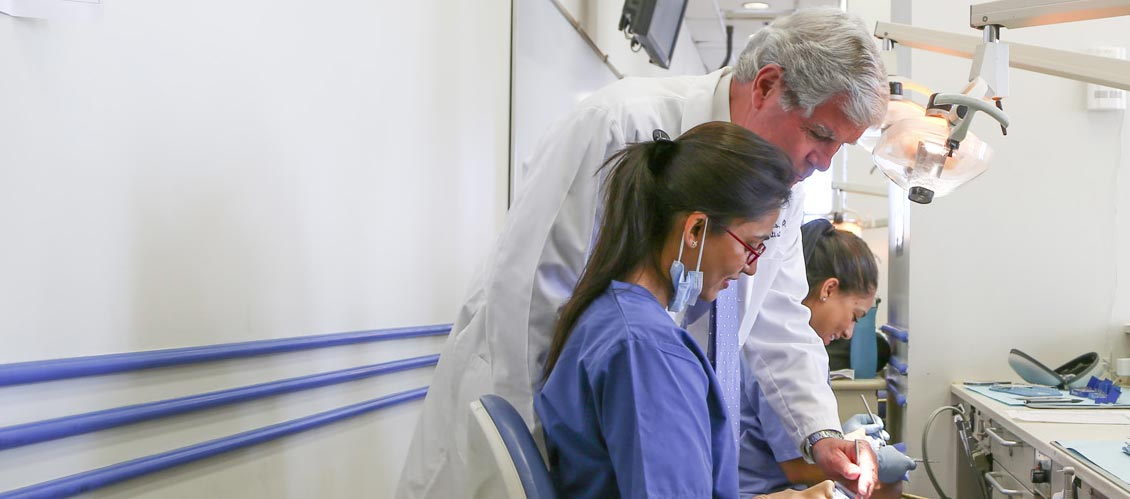
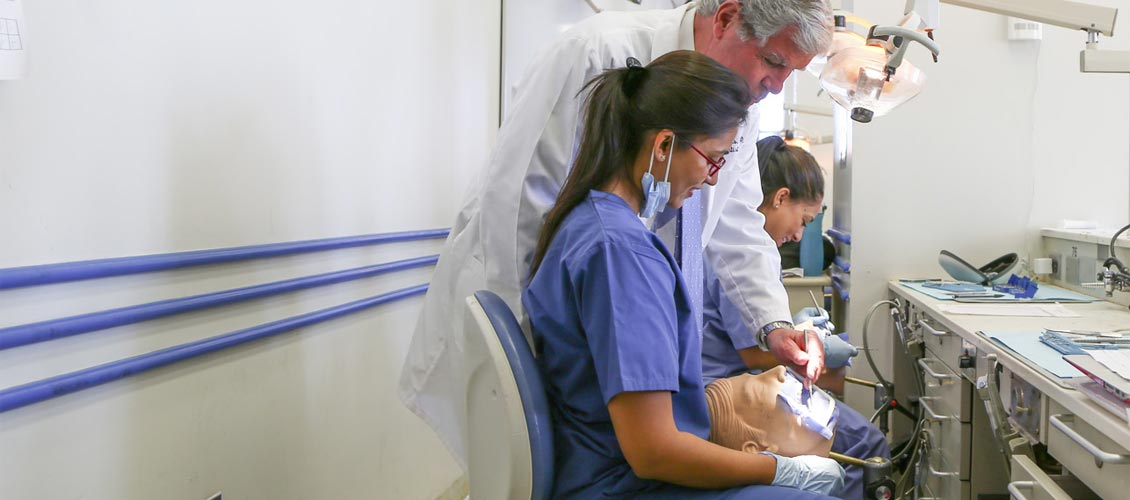
slideshow images

diff --git a/teachdentistry/templates/base_teachdentistry.html b/teachdentistry/templates/base_teachdentistry.html
@@ -84,6 +84,7 @@
                     <div class="active item"><img src="/site_media/img/slideshow_01.jpg" /></div>
                     <div class="item"><img src="/site_media/img/slideshow_02.jpg" /></div>
                     <div class="item"><img src="/site_media/img/slideshow_03.jpg" /></div>
+                    <div class="item"><img src="/site_media/img/slideshow_04.jpg" /></div>
                 </div>
             </div>
             <div class="text-content" id="phrase1">

diff --git a/teachdentistry/templates/registration/login.html b/teachdentistry/templates/registration/login.html
@@ -81,7 +81,7 @@ $(document).ready(function($){
         $(".login-set").fadeOut("fast", "linear");
     });
     $('.carousel').carousel({
-        interval: 8000
+        interval: 7000
     })
 });
 	$(function() {
